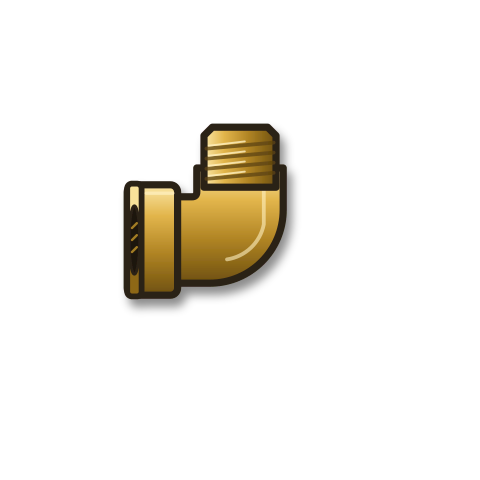
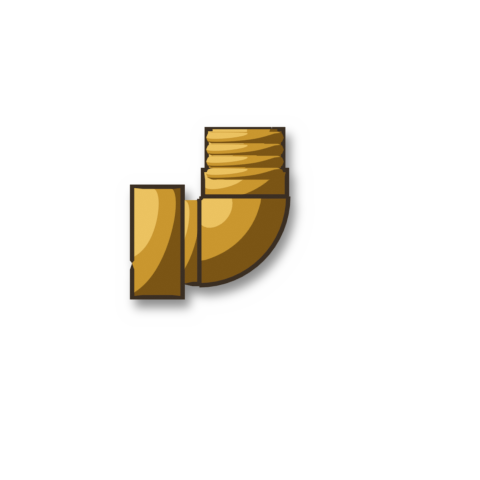
Латунь снова из Blender: полная сборка арта перезаписывала её векторной
art/export.py больше не трогает fit_*.png, если деталь уже есть (её рисует Blender).
art/blender/fittings.py: рендерит все детали из ресурсов, а не только из уровней;
обводка задавалась дважды (толщина умножалась) — теперь как у приборов.
Листы витрин пересобраны.

Claude-Session: https://claude.ai/code/session_01KTF9zcDbthXae1taWntBSd

Changed region(s): [[0.25, 0.25, 0.625, 0.6562]]

diff --git a/art/blender/fittings.py b/art/blender/fittings.py
@@ -25,7 +25,7 @@ def reset():
     sc.view_settings.view_transform = 'Standard'
     sc.render.use_freestyle = True
     sc.render.line_thickness_mode = 'ABSOLUTE'
-    sc.render.line_thickness = 4.5
+    sc.render.line_thickness = 1.0   # общий множитель; толщину задаёт стиль линии (иначе 4.5×4.5 — «брусок»)
     vl = sc.view_layers[0]
     ls = vl.freestyle_settings.linesets.new('ol')
     ls.select_by_visibility = True
@@ -239,6 +239,11 @@ def level_sigs():
             ports = dict(re.findall(r'(up|right|down|left) = "([NV])"', m.group(1)))
             sig = ''.join(d[0] + ports[d] for d in ('up', 'right', 'down', 'left') if d in ports)
             out['fit_' + sig] = ports
+    # и все детали, что уже есть в ресурсах (витрины, сцены): иначе они остаются старыми векторными
+    names = {'u': 'up', 'r': 'right', 'd': 'down', 'l': 'left'}
+    for f in glob.glob(os.path.join(root, 'assets', 'gfx', 'fit_*.png')):
+        sig = os.path.basename(f)[4:-4]
+        out.setdefault('fit_' + sig, {names[sig[i]]: sig[i + 1] for i in range(0, len(sig), 2)})
     return out
 
 

diff --git a/art/export.py b/art/export.py
@@ -62,7 +62,8 @@ for lv in screens2.L:
     for ob in lv['objects']:
         if ob['kind'] == 'fitting':
             sig = ''.join(SIG[d] + ob['ports'][d] for d in ('up', 'right', 'down', 'left') if d in ob['ports'])
-            if 'fit_' + sig not in made:
+            # латунь рисует Blender (art/blender/fittings.py); векторная — только для новой детали, которой ещё нет
+            if 'fit_' + sig not in made and not os.path.exists(os.path.join(OUT, 'fit_%s.png' % sig)):
                 sprite('fit_' + sig, gen2.fitting2(X, Y, CR, ob['ports']))
 for th in ('N', 'V'):
     sprite('port_%s' % th, port2(X, Y, CR, 'right', th, False))
